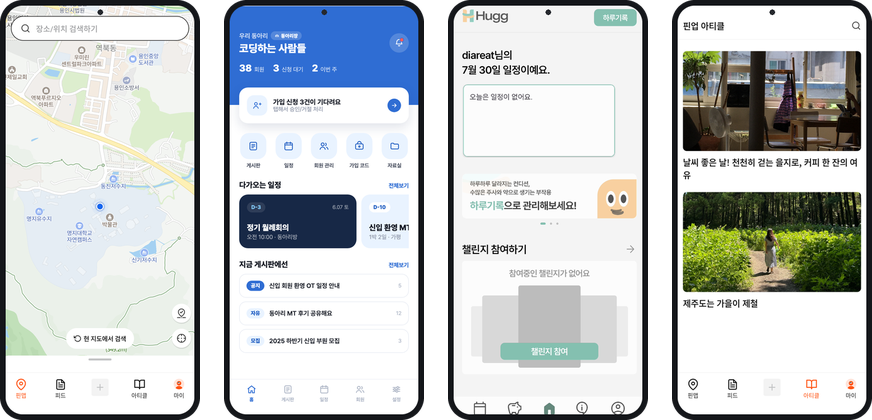
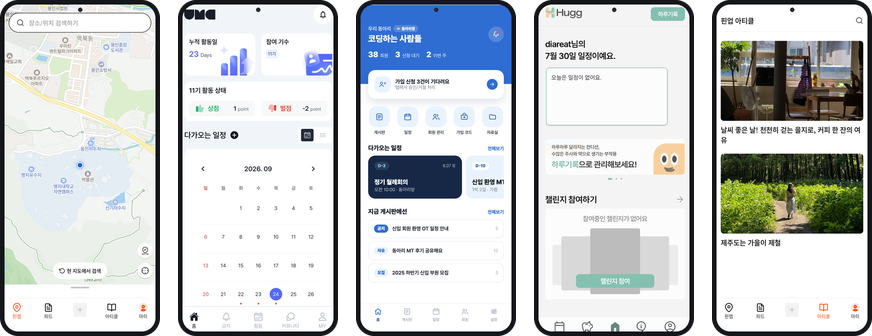
docs: 만든 앱 화면 띠에 UMC 홈 추가

diff --git a/assets/_src/gen_images.py b/assets/_src/gen_images.py
@@ -61,8 +61,11 @@ def cover(img, w, h):
     return img.crop((x, 0, x + w, h))
 
 
-def phone(src_name, label, w=300, h=650, bezel=9, radius=36):
-    shot = cover(Image.open(f"{SRC}/{src_name}").convert("RGB"), w, h)
+def phone(src_name, label, top=0, w=300, h=650, bezel=9, radius=36):
+    """top: pixels to drop from the source first (a device capture's status bar)."""
+    path = src_name if src_name.startswith("/") else f"{SRC}/{src_name}"
+    src = Image.open(path).convert("RGB")
+    shot = cover(src.crop((0, top, src.width, src.height)), w, h)
 
     fw, fh = w + bezel * 2, h + bezel * 2
     frame = Image.new("RGBA", (fw * SS, fh * SS), (0, 0, 0, 0))
@@ -86,9 +89,12 @@ for n in ("pinup", "umc", "hugg", "damoim", "plub"):
     icon(n)
 print("icons done")
 
-SHOTS = [("pinup_map.png", "핀업 지도"), ("damoim_home.png", "다모임 홈"),
-         ("hugg_home.png", "허그 홈"), ("pinup_article.png", "핀업 아티클")]
-FRAMES = [phone(f, n) for f, n in SHOTS]
+# UMC 화면은 포트폴리오 저장소에 올린 캡처를 그대로 쓴다 (개발 서버 QA 계정으로 찍은 화면)
+UMC = "/Users/seok/StudioProjects/portfolio/public/work/umc"
+SHOTS = [("pinup_map.png", "핀업 지도"), (f"{UMC}/home.webp", "UMC 홈", 94),
+         ("damoim_home.png", "다모임 홈"), ("hugg_home.png", "허그 홈"),
+         ("pinup_article.png", "핀업 아티클")]
+FRAMES = [phone(*shot) for shot in SHOTS]
 print("frames done")
 
 
@@ -103,13 +109,18 @@ def strip(frames, cols, out_name, tile_w=200, gap=24):
     H = rows * th + (rows - 1) * gap
     canvas = Image.new("RGBA", (W, H), (0, 0, 0, 0))
     for i, t in enumerate(tiles):
-        canvas.alpha_composite(t, ((i % cols) * (tile_w + gap), (i // cols) * (th + gap)))
+        row, col = divmod(i, cols)
+        # a short last row sits in the middle instead of hugging the left edge
+        in_row = min(cols, len(tiles) - row * cols)
+        x0 = (cols - in_row) * (tile_w + gap) // 2
+        canvas.alpha_composite(t, (x0 + col * (tile_w + gap), row * (th + gap)))
     canvas.save(f"{OUT}/{out_name}.png")
     return canvas.size
 
 
-print("wide  ", strip(FRAMES, 4, "screens-wide"))
-print("narrow", strip(FRAMES, 2, "screens-narrow"))
+# 5 phones: one row on wide screens (same 872px width as before), 3 + 2 on narrow ones
+print("wide  ", strip(FRAMES, 5, "screens-wide", tile_w=160, gap=18))
+print("narrow", strip(FRAMES, 3, "screens-narrow", tile_w=128, gap=20))
 
 
 def rounded(src_path, out_name, radius=20, max_w=620):

diff --git a/README.md b/README.md
@@ -23,7 +23,7 @@
 <p align="center">
   <picture>
     <source media="(max-width: 560px)" srcset="assets/screens-narrow.png">
-    <img src="assets/screens-wide.png" width="872" alt="핀유트 지도, 다모임 홈, 허그 홈, 핀유트 아티클 화면">
+    <img src="assets/screens-wide.png" width="872" alt="핀유트 지도, UMC 홈, 다모임 홈, 허그 홈, 핀유트 아티클 화면">
   </picture>
 </p>
 
